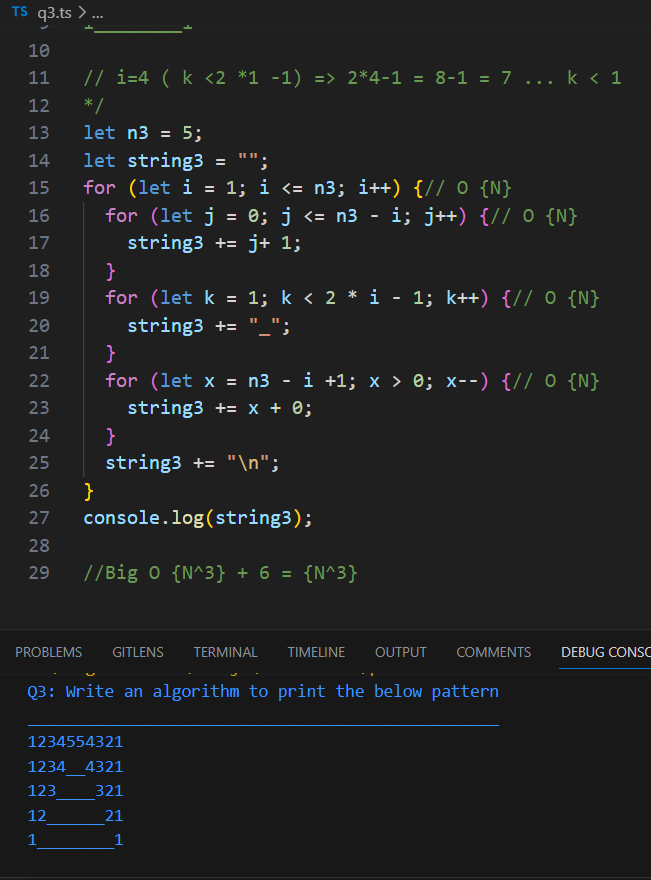
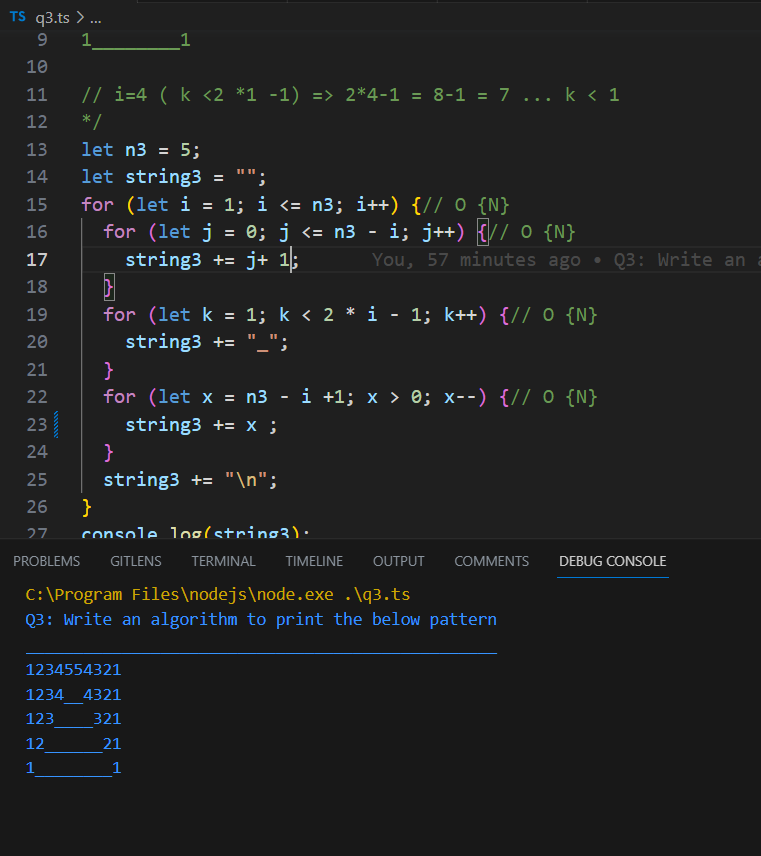
This kata is about multiplying a given number by eight if it is an even number and by nine otherwise

diff --git a/q2.ts b/q2.ts
@@ -10,12 +10,22 @@ console.log('_________________________________________________')
 let n2 = 8;
 let string2 = '';
 
+// for (let i = 0; i < n2; i++) {
+//     for (let j = 0; j < n2; j++) {
+//         if (j > i){
+//             string2+= "*"
+//         }
+//         string2+= " "
+//     }
+//     string2+= "\n"
+// }
+
 for (let i = 0; i < n2; i++) {
-    for (let j = 0; j < n2; j++) {
-        if (j > i){
-            string2+= "*"
+    for( let j = 0; j < n2; j++) {
+        if ( j > i) {
+            string2+= '*'
         }
-        string2+= " "
+        string2+= ' '
     }
     string2+= "\n"
 }

diff --git a/ps1.ts b/ps1.ts
@@ -1,0 +1,15 @@
+console.log("PS1: This kata is about multiplying a given number by eight if it is an even number and by nine otherwise.");
+console.log('__________________________________________________________________________________________________')
+
+function simpleMultiplication(number) {
+    if (number%2 === 0) {
+        return number * 8;
+    }
+    
+    return number * 9;
+}
+
+console.log(simpleMultiplication(4));
+console.log(simpleMultiplication(2));
+console.log(simpleMultiplication(1));
+console.log(simpleMultiplication(3));

diff --git a/q1.ts b/q1.ts
@@ -20,7 +20,7 @@ for(let i = 0; i < n; i++) {
       string += "*";// first and last row stars
     }
     else {
-      if(j === 0 || j === n - 4) {
+      if(j === 0 || j === n - n/2) {
         string += "*";
       }
       else {

diff --git a/q3.ts b/q3.ts
@@ -20,7 +20,7 @@ for (let i = 1; i <= n3; i++) {// O {N}
     string3 += "_";
   }
   for (let x = n3 - i +1; x > 0; x--) {// O {N}
-    string3 += x + 0;
+    string3 += x ;
   }
   string3 += "\n";
 }
